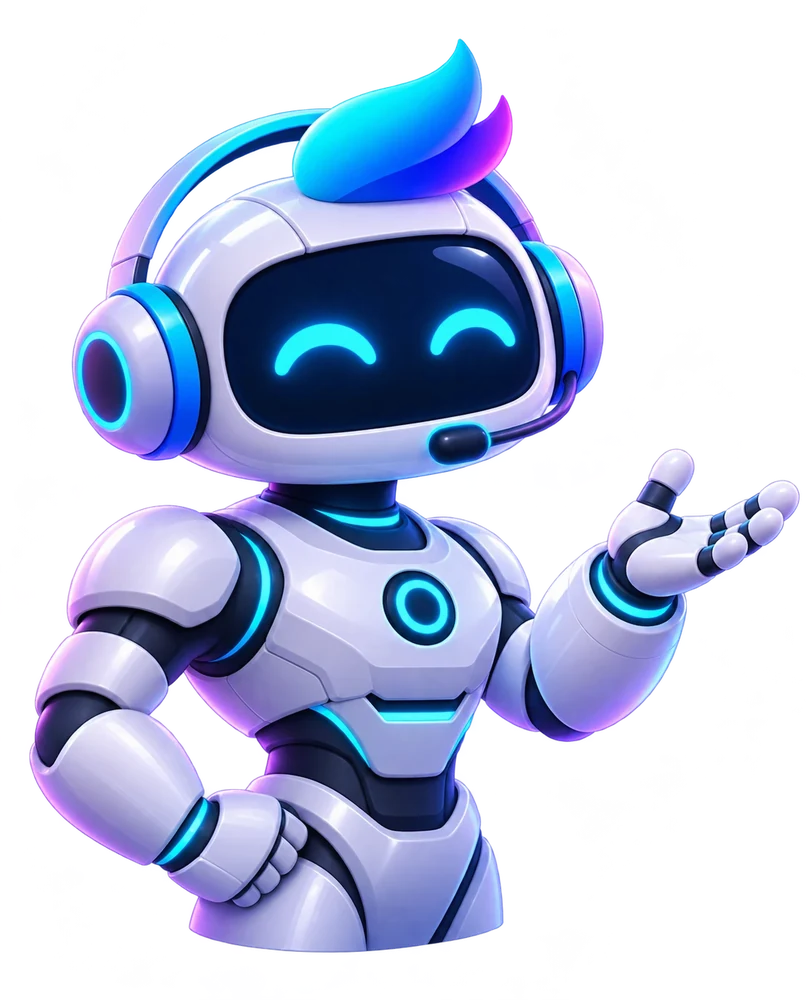
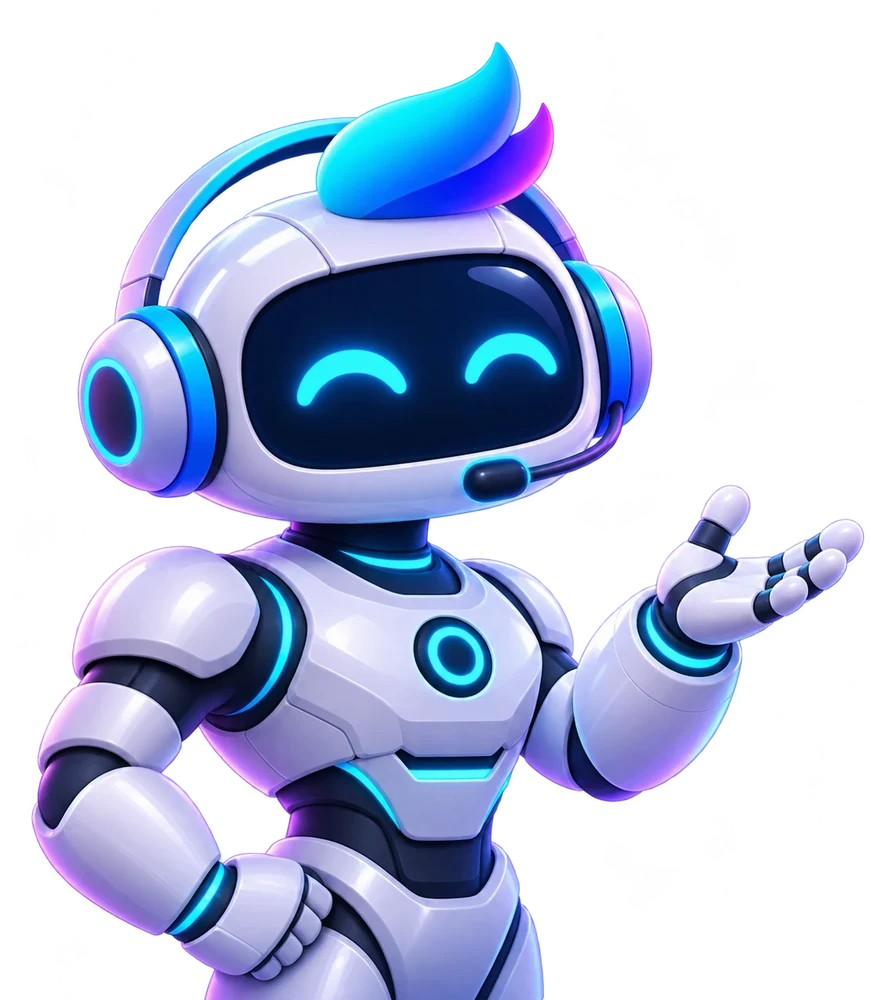
feat(web): bigger robot on the welcome page with the original headline

diff --git a/saki-web/src/components/AuthScreen.tsx b/saki-web/src/components/AuthScreen.tsx
@@ -63,33 +63,36 @@ export function AuthScreen() {
           <span className="text-lg font-semibold tracking-tight">Saki AI</span>
         </div>
 
-        <div className="relative z-10 px-12 pt-4">
+        <div className="relative z-10 px-12 pt-2">
           <span className="inline-flex items-center gap-2 rounded-full border border-ink-700 bg-ink-850/70 px-3 py-1 text-xs font-medium text-ink-300 backdrop-blur">
-            <span className="h-1.5 w-1.5 rounded-full bg-brand" />
-            AI voice coding assistant
+            <span className="relative flex h-2 w-2">
+              <span className="absolute inline-flex h-full w-full animate-ping rounded-full bg-emerald-400 opacity-60" />
+              <span className="relative inline-flex h-2 w-2 rounded-full bg-emerald-500" />
+            </span>
+            Saki is online
           </span>
-          <h2 className="mt-5 max-w-xl text-[2.5rem] leading-[1.15] font-semibold tracking-tight">
-            Ask your coding questions in <span className="sinhala text-brand">සිංහල</span> or English.
+          <h2 className="mt-5 text-[2.6rem] leading-[1.12] font-semibold tracking-tight">
+            Code by voice,
+            <br />
+            in <span className="text-brand">Sinhala</span> and English.
           </h2>
-          <p className="mt-3 max-w-lg text-base text-ink-300">
-            Saki explains the answer out loud and writes the complete code into your editor.
-          </p>
+          <p className="mt-3 text-base text-ink-300">Ask out loud. Hear the answer. Get the code.</p>
         </div>
 
         {/* Saki stands on the bottom edge of the panel, so the cut-off waist stays hidden. */}
-        <div className="relative mt-6 min-h-0 flex-1">
+        <div className="relative mt-4 min-h-0 flex-1">
           <div className="pointer-events-none absolute bottom-0 left-1/2 h-[85%] w-[80%] -translate-x-1/2 rounded-full bg-[radial-gradient(circle,rgba(34,200,245,0.24),rgba(106,76,255,0.12)_45%,transparent_70%)] blur-2xl" />
           <div className="absolute inset-x-0 bottom-0 flex h-full justify-center">
-            <div className="relative h-full max-h-[580px] min-h-[300px] self-end" style={{ aspectRatio: '806 / 1000' }}>
+            <div className="relative h-full max-h-[680px] min-h-[320px] self-end" style={{ aspectRatio: '871 / 1000' }}>
               <img
                 src="/saki-bot.webp"
                 alt="Saki, the Saki AI robot"
-                width={806}
+                width={871}
                 height={1000}
                 draggable={false}
                 className="saki-bot h-full w-full select-none object-contain object-bottom"
               />
-              <SakiGreeting className="absolute top-[20%] left-[74%]" />
+              <SakiGreeting className="absolute top-[17%] left-[72%]" />
             </div>
           </div>
         </div>

diff --git a/saki-web/src/components/SakiGreeting.tsx b/saki-web/src/components/SakiGreeting.tsx
@@ -1,13 +1,13 @@
 import { useEffect, useMemo, useState } from 'react';
 
-const LINES = ['Hi, I’m Saki! 👋', 'ආයුබෝවන්! 🙏', 'Ask me about your code.', 'සිංහලෙන් අහන්නත් පුළුවන්.'];
+const LINES = ['Hi, I’m Saki! 👋', 'Ask me anything.', 'I’ll write the code.'];
 
 const TYPE_MS = 55;
 const ERASE_MS = 28;
 const HOLD_MS = 1900;
 const NEXT_MS = 350;
 
-/** Splits into user-visible characters, so Sinhala letters and emoji never break apart. */
+/** Splits into user-visible characters, so emoji never break apart. */
 function characters(text: string): string[] {
   if ('Segmenter' in Intl) {
     return Array.from(new Intl.Segmenter(undefined, { granularity: 'grapheme' }).segment(text), (s) => s.segment);
